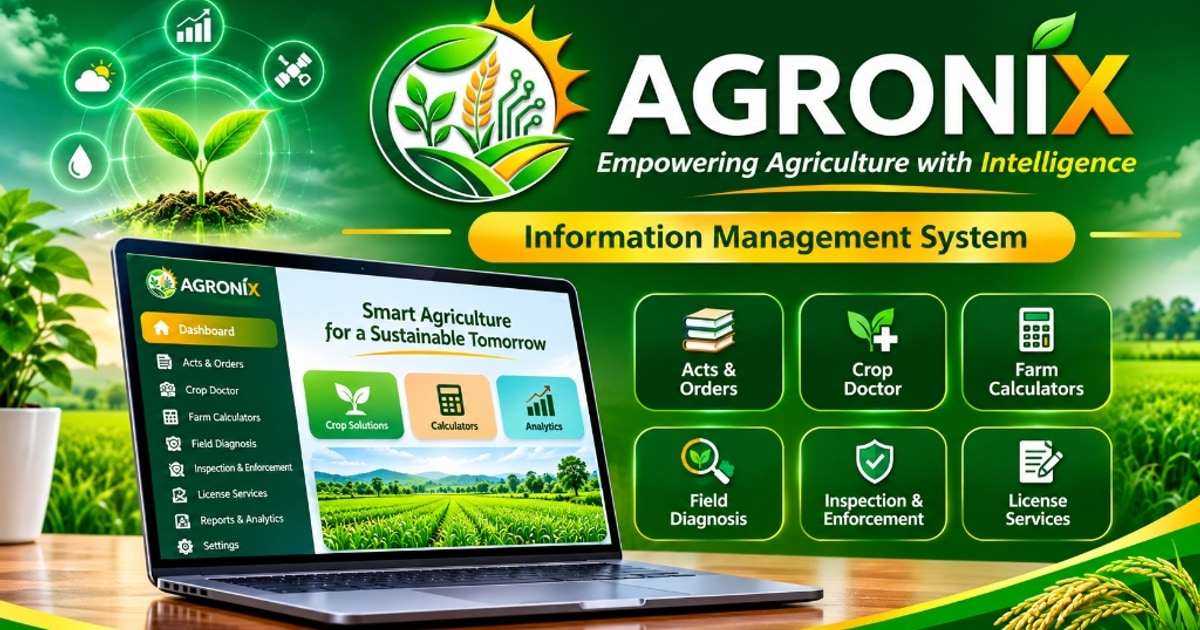
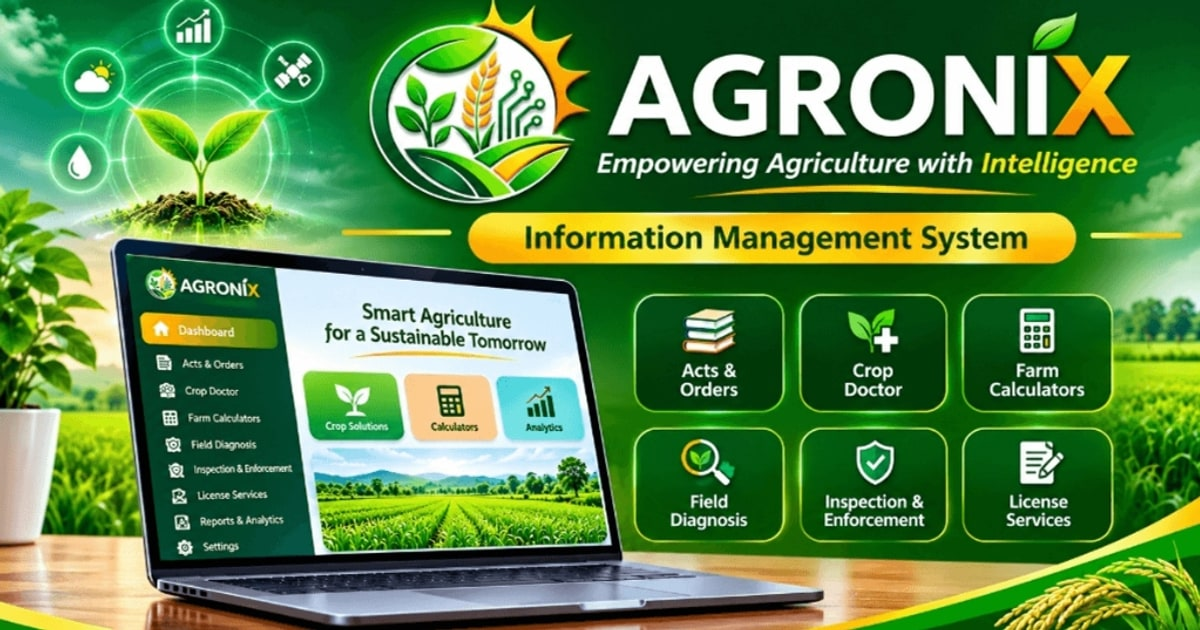
Fix WhatsApp social preview with optimized progressive JPEG and cache-busting

diff --git a/project/index.html b/project/index.html
@@ -2,6 +2,34 @@
 <html lang="en">
   <head>
     <meta charset="UTF-8" />
+    <meta name="viewport" content="width=device-width, initial-scale=1, viewport-fit=cover, interactive-widget=resizes-content" />
+    <title>AGRONIX – Agriculture Information Management System</title>
+    <meta name="description" content="Empowering Agriculture with Intelligence. An integrated digital platform for Agricultural Officers featuring agricultural information, statutory forms, pesticide database, FCO references, tour diaries and digital tools." />
+    <link rel="canonical" href="https://www.tiryaniagriportal.in/" />
+
+    <!-- Open Graph Metadata (WhatsApp, Facebook, LinkedIn, Telegram) -->
+    <meta property="og:type" content="website" />
+    <meta property="og:site_name" content="AGRONIX" />
+    <meta property="og:locale" content="en_IN" />
+    <meta property="og:url" content="https://www.tiryaniagriportal.in/" />
+    <meta property="og:title" content="AGRONIX – Agriculture Information Management System" />
+    <meta property="og:description" content="Empowering Agriculture with Intelligence. An integrated digital platform for Agricultural Officers featuring agricultural information, statutory forms, pesticide database, FCO references, tour diaries and digital tools." />
+    <meta property="og:image" content="https://www.tiryaniagriportal.in/agronix-social-preview.jpg?v=2" />
+    <meta property="og:image:secure_url" content="https://www.tiryaniagriportal.in/agronix-social-preview.jpg?v=2" />
+    <meta property="og:image:type" content="image/jpeg" />
+    <meta property="og:image:width" content="1200" />
+    <meta property="og:image:height" content="630" />
+    <meta property="og:image:alt" content="AGRONIX – Agriculture Information Management System" />
+    <link rel="image_src" href="https://www.tiryaniagriportal.in/agronix-social-preview.jpg?v=2" />
+
+    <!-- Twitter / X Card Metadata -->
+    <meta name="twitter:card" content="summary_large_image" />
+    <meta name="twitter:url" content="https://www.tiryaniagriportal.in/" />
+    <meta name="twitter:title" content="AGRONIX – Agriculture Information Management System" />
+    <meta name="twitter:description" content="Empowering Agriculture with Intelligence. An integrated digital platform for Agricultural Officers featuring agricultural information, statutory forms, pesticide database, FCO references, tour diaries and digital tools." />
+    <meta name="twitter:image" content="https://www.tiryaniagriportal.in/agronix-social-preview.jpg?v=2" />
+    <meta name="twitter:image:alt" content="AGRONIX – Agriculture Information Management System" />
+
     <link rel="icon" type="image/x-icon" href="/favicon.ico" />
     <link rel="icon" type="image/png" sizes="192x192" href="/icons/icon-192x192.png?v=agronix-v2" />
     <link rel="icon" type="image/png" sizes="48x48" href="/favicon.png" />
@@ -12,42 +40,16 @@
     <link rel="preload" as="font" type="font/woff2" href="/fonts/atkinson-hyperlegible-next-latin-400-normal.woff2" crossorigin />
     <link rel="preload" as="font" type="font/woff2" href="/fonts/atkinson-hyperlegible-next-latin-800-normal.woff2" crossorigin />
     <link rel="preload" as="image" href="/images/agronix-logo-original.webp" type="image/webp" fetchpriority="high" />
-    <meta name="viewport" content="width=device-width, initial-scale=1, viewport-fit=cover, interactive-widget=resizes-content" />
     <meta name="theme-color" content="#065f46" />
     <meta name="color-scheme" content="light dark" />
     <meta name="robots" content="index, follow, max-image-preview:large, max-snippet:-1, max-video-preview:-1" />
     <meta name="googlebot" content="index, follow, max-image-preview:large" />
-    <link rel="canonical" href="https://www.tiryaniagriportal.in/" />
-    <title>AGRONIX – Agriculture Information Management System</title>
-    <meta name="description" content="Empowering Agriculture with Intelligence. An integrated digital platform for Agricultural Officers featuring agricultural information, statutory forms, pesticide database, FCO references, tour diaries and digital tools." />
     <meta name="keywords" content="AGRONIX, Agriculture Information Management System, Tiryani, Telangana Agriculture, Crop Advisory, Fertilizer Calculator, Pesticide Database, FCO 1985, Statutory Forms, Tour Diary, Field Operations" />
     <meta name="author" content="K. Vinay Reddy, MAO Tiryani" />
     <meta name="application-name" content="AGRONIX" />
     <meta name="apple-mobile-web-app-title" content="AGRONIX" />
     <meta name="apple-mobile-web-app-capable" content="yes" />
     <meta name="apple-mobile-web-app-status-bar-style" content="default" />
-
-    <!-- Open Graph Metadata (WhatsApp, Facebook, LinkedIn) -->
-    <meta property="og:type" content="website" />
-    <meta property="og:site_name" content="AGRONIX" />
-    <meta property="og:locale" content="en_IN" />
-    <meta property="og:url" content="https://www.tiryaniagriportal.in/" />
-    <meta property="og:title" content="AGRONIX – Agriculture Information Management System" />
-    <meta property="og:description" content="Empowering Agriculture with Intelligence. An integrated digital platform for Agricultural Officers featuring agricultural information, statutory forms, pesticide database, FCO references, tour diaries and digital tools." />
-    <meta property="og:image" content="https://www.tiryaniagriportal.in/agronix-social-preview.png" />
-    <meta property="og:image:secure_url" content="https://www.tiryaniagriportal.in/agronix-social-preview.png" />
-    <meta property="og:image:type" content="image/png" />
-    <meta property="og:image:width" content="1200" />
-    <meta property="og:image:height" content="630" />
-    <meta property="og:image:alt" content="AGRONIX – Agriculture Information Management System" />
-
-    <!-- Twitter / X Card Metadata -->
-    <meta name="twitter:card" content="summary_large_image" />
-    <meta name="twitter:url" content="https://www.tiryaniagriportal.in/" />
-    <meta name="twitter:title" content="AGRONIX – Agriculture Information Management System" />
-    <meta name="twitter:description" content="Empowering Agriculture with Intelligence. An integrated digital platform for Agricultural Officers featuring agricultural information, statutory forms, pesticide database, FCO references, tour diaries and digital tools." />
-    <meta name="twitter:image" content="https://www.tiryaniagriportal.in/agronix-social-preview.png" />
-    <meta name="twitter:image:alt" content="AGRONIX – Agriculture Information Management System" />
     <script>
       // Pre-boot watchdog only. All post-boot service-worker/cache management
       // lives in src/shared/lib/pwaRecovery.ts — keep it that way.
@@ -193,7 +195,7 @@
             "url": "https://www.tiryaniagriportal.in/",
             "applicationCategory": "BusinessApplication",
             "operatingSystem": "All",
-            "image": "https://www.tiryaniagriportal.in/agronix-social-preview.png",
+            "image": "https://www.tiryaniagriportal.in/agronix-social-preview.jpg?v=2",
             "description": "Empowering Agriculture with Intelligence. An integrated digital platform for Agricultural Officers featuring agricultural information, statutory forms, pesticide database, FCO references, tour diaries and digital tools."
           }
         ]

diff --git a/project/src/shared/components/seo/SEO.tsx b/project/src/shared/components/seo/SEO.tsx
@@ -6,7 +6,7 @@ const SITE_URL = 'https://www.tiryaniagriportal.in';
 const SITE_NAME = 'AGRONIX';
 const DEFAULT_TITLE = 'AGRONIX – Agriculture Information Management System';
 const DEFAULT_DESCRIPTION = 'Empowering Agriculture with Intelligence. An integrated digital platform for Agricultural Officers featuring agricultural information, statutory forms, pesticide database, FCO references, tour diaries and digital tools.';
-const DEFAULT_IMAGE = `${SITE_URL}/agronix-social-preview.png`;
+const DEFAULT_IMAGE = `${SITE_URL}/agronix-social-preview.jpg?v=2`;
 
 interface SEOProps {
   title?: string;
@@ -205,10 +205,11 @@ export function SEO({ title, description, image, noIndex, structuredData }: SEOP
       <meta property="og:description" content={pageDescription} />
       <meta property="og:image" content={pageImage} />
       <meta property="og:image:secure_url" content={pageImage} />
-      <meta property="og:image:type" content="image/png" />
+      <meta property="og:image:type" content={pageImage.endsWith('.png') ? 'image/png' : 'image/jpeg'} />
       <meta property="og:image:alt" content={pageTitle} />
       <meta property="og:image:width" content="1200" />
       <meta property="og:image:height" content="630" />
+      <link rel="image_src" href={pageImage} />
       
       {/* Twitter Card */}
       <meta name="twitter:card" content="summary_large_image" />
@@ -220,7 +221,7 @@ export function SEO({ title, description, image, noIndex, structuredData }: SEOP
       
       {/* Additional SEO */}
       <meta name="keywords" content="Tiryani, AGRONIX, Agriculture Department Tiryani, Kumuram Bheem Asifabad, Telangana Agriculture, Crop Advisory, Weather, Farmer Services, Agriculture Portal, Government Schemes" />
-      <meta name="author" content="Department of Agriculture, Telangana" />
+      <meta name="author" content="AGRONIX" />
       
       {/* Structured Data */}
       <script type="application/ld+json">
